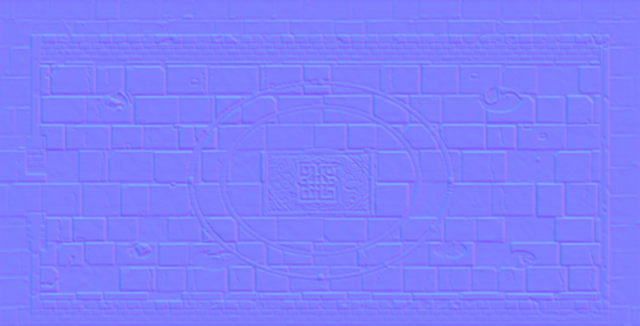
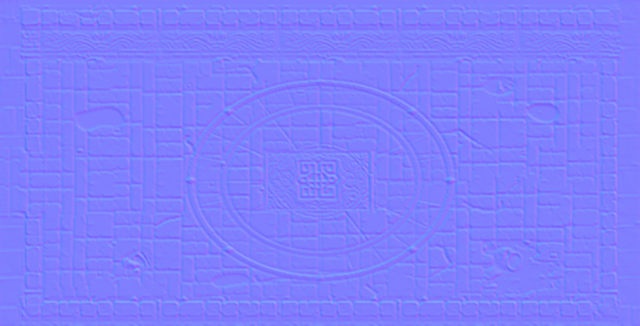
아트 굴3: den3 두억시니의 방 전용 지형 WIP — dungeon 바닥 퀼팅+의식대(소환점 8)+균열·검은 물+파도문 프리즈 벽 (걷기 기하·json 불변)

diff --git a/art/ch2den3_terrain.py b/art/ch2den3_terrain.py
@@ -1,0 +1,340 @@
+"""2장 두억시니의 방(den3) 전용 지형 — M2 의 '코드 판석' 바닥을 일러스트 소재로 갈아엎은 리페인트.
+걷기 기하(ch2m2_maps.MAPS['den3'])·충돌 json·소품 좌표는 그대로다(그림만 새로 그린다): 걷는 면 png x44~598, y62~299, 서쪽 입구 복도.
+ 바닥 = dungeon 원본 일러스트의 '진짜 바닥'(금 간 큰 판석·이끼)을 뒤집기까지 섞어 퀼팅 + 보라회색으로 톤 이동
+ 중앙 의식대 = 타원 세 겹(r40 제단 석판 / r98 안쪽 판 / r130 바깥 띠) 섹터 석판 + 보라 상감선 + 소환점 8(45도, r130 — 설계서 §4.6)
+ 균열 = 제단에서 방사하는 검은 틈(검은 비가 스며든 곳) + 모서리 검은 물웅덩이
+ 북·남 벽 = dungeon 일러스트의 파도문 프리즈 띠(den1 에서 뜸), 서·동 벽 = 기존 석축 페인터
+사용: python3 art/ch2den3_terrain.py   (den3 만 다시 만든다. den1.png 가 먼저 있어야 한다)
+"""
+import sys, pathlib
+import numpy as np
+from PIL import Image
+from scipy import ndimage as ndi
+
+ROOT = pathlib.Path(__file__).parent
+sys.path.insert(0, str(ROOT))
+import ch2m2_lib as L
+import ch2m2_terrain as T
+import ch2m2_walls as WL
+
+W, H = 640, 326
+CX, CY = 320, 180            # 의식 원 중심(그림 좌표) = footprint (320,200)
+RX = 130                     # 소환진 반경(footprint 130 → 그림 가로 130 / 세로 97.5)
+RY = RX * 0.75
+S = T.S
+
+
+# ------------------------------------------------------------------ 바닥 퀼팅
+def floor_pools():
+    v = L.load('dungeon')
+    boxes = [(770, 270, 1015, 425), (515, 500, 660, 700), (770, 300, 1010, 420)]   # 원본 해상도의 '깨끗한' 바닥 두 곳
+    return [v[y0:y1, x0:x1] for (x0, y0, x1, y1) in boxes[:2]]
+
+
+def quilt_multi(pools, out_hw, block=112, overlap=28, seed=5, tries=260):
+    """L.quilt 와 같은 Efros-Freeman 이지만 후보를 여러 풀에서, 뒤집어서도 뽑는다(반복 무늬 줄이기)."""
+    rng = np.random.default_rng(seed)
+    Ho, Wo = out_hw
+    step = block - overlap
+    ny, nx = -(-(Ho - overlap) // step), -(-(Wo - overlap) // step)
+    out = np.zeros((ny * step + overlap, nx * step + overlap, 3), np.float32)
+    for j in range(ny):
+        for i in range(nx):
+            y, x = j * step, i * step
+            best, bd = None, 1e30
+            for _ in range(tries):
+                p = pools[int(rng.integers(0, len(pools)))]
+                ph, pw = p.shape[:2]
+                sy, sx = int(rng.integers(0, ph - block)), int(rng.integers(0, pw - block))
+                c = p[sy:sy + block, sx:sx + block]
+                if rng.random() < 0.5:
+                    c = c[:, ::-1]
+                if rng.random() < 0.5:
+                    c = c[::-1]
+                d = 0.0
+                if i > 0:
+                    d += ((c[:, :overlap] - out[y:y + block, x:x + overlap]) ** 2).sum()
+                if j > 0:
+                    d += ((c[:overlap] - out[y:y + overlap, x:x + block]) ** 2).sum()
+                if d < bd:
+                    bd, best = d, c
+            c = best.copy()
+            if i == 0 and j == 0:
+                out[y:y + block, x:x + block] = c
+                continue
+            m = np.ones((block, block), np.float32)
+            if i > 0:
+                e = ((c[:, :overlap] - out[y:y + block, x:x + overlap]) ** 2).sum(2)
+                m[:, :overlap] = np.minimum(m[:, :overlap], L._cut_v(e))
+            if j > 0:
+                e = ((c[:overlap] - out[y:y + overlap, x:x + block]) ** 2).sum(2)
+                m[:overlap] = np.minimum(m[:overlap], L._cut_v(e.T).T)
+            m = ndi.gaussian_filter(m, 0.8)
+            out[y:y + block, x:x + block] = out[y:y + block, x:x + block] * (1 - m[..., None]) + c * m[..., None]
+    return out[:Ho, :Wo]
+
+
+def violet_gray(c):
+    """청록 바닥을 보라회색으로: 채널을 섞어 푸른 기를 덜고 붉은 기를 얹는다(휘도는 거의 유지)."""
+    R, G, B = c[..., 0], c[..., 1], c[..., 2]
+    lum = (R * .3 + G * .59 + B * .11)
+    out = np.stack([0.66 * R + 0.40 * B, 0.70 * G + 0.08 * B + 0.12 * R, 0.22 * R + 0.70 * B], -1)
+    out = out * (lum / np.maximum(out @ np.array([.3, .59, .11], np.float32), 1))[..., None]
+    return np.clip(out, 0, 255)
+
+
+def base_floor():
+    pools = [violet_gray(p) for p in floor_pools()]
+    hi = quilt_multi(pools, (round(H * S), round(W * S)))
+    img = Image.fromarray(np.clip(hi, 0, 255).astype(np.uint8)).resize((W, H), Image.BOX)
+    return np.asarray(img, np.float32)
+
+
+# ------------------------------------------------------------------ 의식대
+def polar():
+    yy, xx = np.mgrid[0:H, 0:W].astype(np.float32)
+    dx, dy = (xx - CX), (yy - CY)
+    r = np.sqrt((dx / RX) ** 2 + (dy / RY) ** 2)            # 1.0 = 소환진 원
+    ang = np.degrees(np.arctan2(dy / RY, dx / RX)) % 360
+    return r, ang
+
+
+VIO = [(52, 24, 96), (96, 46, 170), (150, 86, 236), (200, 150, 255)]
+
+
+def ritual(cv, wm, rng):
+    r, ang = polar()
+    walk = wm > 0.5
+    # 1) 판 위에 섹터 석판: 안쪽 판(r<0.75) 12섹터 / 바깥 띠(0.75..1.0) 24섹터, 석판마다 톤 ±
+    inner = (r < 0.75) & walk
+    band = (r >= 0.75) & (r < 1.02) & walk
+    sec_i = np.floor(ang / 30).astype(int)
+    sec_b = np.floor(ang / 15).astype(int)
+    ring_i = np.floor(r / 0.375).astype(int)               # 안쪽 판은 r 구간 2단(0.375 경계)
+    cell = np.where(inner, ring_i * 100 + sec_i, 1000 + sec_b)
+    h = ((cell * 2654435761) % 1000) / 1000.0
+    tone = np.where(inner, 0.88 + (h - 0.5) * 0.30, 0.66 + (h - 0.5) * 0.24)       # 안쪽 판이 더 밝다, 띠는 어둡다
+    sel = inner | band
+    cv[sel] = cv[sel] * tone[sel][..., None] + np.array([6, 2, 14], np.float32) * 1.0
+    # 석판 경계(어두운 줄눈): 셀 id 가 바뀌는 곳
+    cid = cell.astype(np.int64)
+    edge = np.zeros_like(sel)
+    edge[:, 1:] |= (cid[:, 1:] != cid[:, :-1])
+    edge[1:, :] |= (cid[1:, :] != cid[:-1, :])
+    edge &= sel
+    cv[edge] = (14, 12, 22)
+    # 위쪽 하이라이트(각 석판의 윗 가장자리 1px)
+    lit = np.zeros_like(sel)
+    lit[1:, :] = edge[:-1, :] & ~edge[1:, :] & sel[1:, :]
+    cv[lit] = np.clip(cv[lit] * 1.35 + 8, 0, 255)
+    # 2) 보라 상감선: r=1.0(소환진 원) / r=0.75(안쪽 판 가장자리) / r=0.30(제단 둘레)
+    for rr, wid, dim in ((1.0, 0.020, 0), (0.75, 0.016, 1), (0.30, 0.020, 1)):
+        d = np.abs(r - rr)
+        core = (d < wid) & walk
+        halo = (d >= wid) & (d < wid + 0.024) & walk
+        cv[halo] = cv[halo] * 0.38 + np.array((10, 6, 22), np.float32) * 0.62          # 상감 홈(어두운 테두리)
+        cv[core] = (64, 34, 118) if dim else (96, 52, 170)
+        top = core & ~np.roll(core, 1, axis=0)                                         # 윗줄 하이라이트
+        cv[top] = VIO[1] if dim else (140, 84, 214)
+    # 3) 소환점 8(45도): 보라 마름모 + 바깥 점 — 설계서 소환진 후보와 같은 8점(r=130 footprint)
+    for k in range(8):
+        a = np.radians(k * 45)
+        x0, y0 = CX + np.cos(a) * RX, CY + np.sin(a) * RY
+        for dy in range(-4, 5):
+            for dx in range(-6, 7):
+                if abs(dx) / 6 + abs(dy) / 4 <= 1.0:
+                    px, py = int(round(x0 + dx)), int(round(y0 + dy))
+                    if 0 <= px < W and 0 <= py < H and walk[py, px]:
+                        e = abs(dx) / 6 + abs(dy) / 4
+                        cv[py, px] = VIO[3] if e < 0.35 else (VIO[2] if e < 0.7 else VIO[1])
+    # 4) 살(8방향) — 점선: 안쪽 판 가장자리(0.75)에서 소환점 쪽으로 곧게, 끊긴 상감
+    for k in range(8):
+        a = np.radians(k * 45 + 22.5)
+        for t in np.arange(0.34, 0.74, 0.012):
+            if int(t * 100) % 6 < 3:
+                px, py = int(CX + np.cos(a) * RX * t), int(CY + np.sin(a) * RY * t)
+                if walk[py, px]:
+                    cv[py, px] = VIO[1]
+    return r
+
+
+# ------------------------------------------------------------------ 균열·검은 물·잔해
+def fissures(cv, wm, rng, r):
+    """제단에서 방사하는 틈. 어둡게 1~2px + 한쪽에 보라 점(검은 비가 스며 나온 자국)."""
+    walk = wm > 0.5
+    starts = [(8, 1.12), (38, 1.1), (75, 1.12), (118, 1.1), (158, 1.12), (200, 1.1), (245, 1.12), (298, 1.1), (335, 1.12)]
+    for ad, r0 in starts:
+        a = np.radians(ad + rng.uniform(-6, 6))
+        x, y = CX + np.cos(a) * RX * r0, CY + np.sin(a) * RY * r0
+        ln = int(rng.integers(26, 56))
+        ang = a
+        for i in range(ln):
+            ang += rng.normal(0, 0.28)
+            x += np.cos(ang) * 2.0; y += np.sin(ang) * 1.5
+            ix, iy = int(x), int(y)
+            if not (50 <= ix < 592 and 66 <= iy < 295) or not walk[iy, ix]:
+                break
+            if abs(((ix - CX) / RX) ** 2 + ((iy - CY) / RY) ** 2) < 1.05:
+                continue
+            wid = 2 if i < ln * 0.55 else 1
+            cv[iy:iy + wid, ix:ix + wid + 1] = (9, 8, 16)
+            if i % 5 == 2 and wid == 2:
+                cv[iy, ix + wid + 1] = VIO[0]
+    # 틈이 끝나는 곳의 작은 파편
+    return cv
+
+
+def black_pool(cv, wm, cx, cy, rx, ry, seed):
+    """검은 비 웅덩이: 불규칙한 어두운 물 + 가장자리 1px 밝은 테 + 보라 반짝임. wm 걷기 밖은 건드리지 않는다."""
+    rng = np.random.default_rng(seed)
+    x0, x1, y0, y1 = int(cx - rx * 1.5), int(cx + rx * 1.5), int(cy - ry * 1.5), int(cy + ry * 1.5)
+    yy, xx = np.mgrid[y0:y1, x0:x1].astype(np.float32)
+    n = L.noise(y1 - y0, x1 - x0, 12, seed) - 0.5
+    d = np.sqrt(((xx - cx) / rx) ** 2 + ((yy - cy) / ry) ** 2) + n * 0.55
+    m = d < 1.0
+    m &= wm[y0:y1, x0:x1] > 0.5
+    rim = m & ~ndi.binary_erosion(m, iterations=1)
+    inn = ndi.binary_erosion(m, iterations=2)
+    sub = cv[y0:y1, x0:x1]
+    sub[m] = (14, 16, 30)
+    sub[inn] = (8, 10, 22)
+    sub[rim] = (44, 52, 86)
+    # 잔물결: 가로 한 줄짜리 밝은 선, 보라 반짝이
+    for k in range(int(rx * ry / 55)):
+        px, py = int(rng.integers(0, x1 - x0)), int(rng.integers(0, y1 - y0))
+        if inn[py, px]:
+            ln = int(rng.integers(3, 7))
+            seg = inn[py, px:px + ln]
+            sub[py, px:px + len(seg)][seg] = (34, 44, 82)
+            if rng.random() < 0.35 and inn[py, min(px + 1, x1 - x0 - 1)]:
+                sub[py, px] = VIO[1]
+
+
+def real_puddle(cv, wm, box, at, flip=False):
+    """dungeon 원본의 검은 물웅덩이(+항아리)를 어두운 픽셀 마스크로 떠서 보라 기운으로 얹는다. 걷기 밖은 건드리지 않는다."""
+    v = L.load('dungeon')
+    x0, y0, x1, y1 = box
+    p = v[y0:y1, x0:x1]
+    if flip:
+        p = p[:, ::-1]
+    img = Image.fromarray(np.clip(p, 0, 255).astype(np.uint8)).resize((round(p.shape[1] / S), round(p.shape[0] / S)), Image.BOX)
+    q = violet_gray(np.asarray(img, np.float32))
+    lum = q @ np.array([.3, .59, .11], np.float32)
+    m = ndi.binary_closing(lum < 40, iterations=2)
+    m = ndi.binary_fill_holes(m)
+    m = ndi.binary_opening(m, iterations=1)
+    lab, n = ndi.label(m)
+    if n:
+        sizes = ndi.sum(m, lab, range(1, n + 1))
+        keep = np.isin(lab, [i + 1 for i, sz in enumerate(sizes) if sz > 60])
+        m = keep
+    ax, ay = at
+    h, w = m.shape
+    sub = wm[ay:ay + h, ax:ax + w] > 0.5
+    if sub.shape != m.shape:
+        return
+    mm = m & sub
+    cv[ay:ay + h, ax:ax + w][mm] = q[mm]
+
+
+def den3_source():
+    rng = np.random.default_rng(77)
+    wm = T.walk_mask('den3', 1.0)
+    outer = L.grime(L.flagstones(W, H, seed=31, pal=T.DARK_SLAB, moss=0.5), seed=17, strength=0.45)
+    floor = base_floor()
+    # 큰 얼룩: 벽 쪽 가장자리를 어둡게(그을음·습기), 중앙 의식대 둘레는 조금 밝게
+    yy, xx = np.mgrid[0:H, 0:W].astype(np.float32)
+    dn = np.minimum.reduce([xx - 44, 598 - xx, yy - 62, 299 - yy])
+    edge_dark = np.clip(1 - dn / 46.0, 0, 1) * 0.28
+    n = L.noise(H, W, 40, 11)
+    floor = floor * (1 - edge_dark[..., None]) * (0.90 + 0.20 * n)[..., None]
+    ww = np.asarray(Image.fromarray((wm * 255).astype(np.uint8)).filter(__import__('PIL.ImageFilter', fromlist=['x']).MaxFilter(9)))
+    cv = np.where((ww > 127)[..., None], floor, outer).astype(np.float32)
+    r = ritual(cv, wm, rng)
+    # 제단 밑 문양 석판(den1 북서 문양 바닥) — 소품 mortar_altar 가 위에 앉는다
+    d1 = T.den1_png()
+    sl = d1[36:98, 20:132]
+    L.paste(cv, sl, CX - 56, CY - 30, None)
+    # 검은 웅덩이 4곳(소품·소환점과 겹치지 않는 모서리 쪽) + 일러스트 웅덩이 스탬프
+    black_pool(cv, wm, 100, 118, 26, 11, 3)
+    real_puddle(cv, wm, (510, 365, 705, 510), (480, 238), flip=True)            # 동쪽 아래: 깨진 항아리 + 검은 물
+    black_pool(cv, wm, 232, 280, 18, 8, 5)
+    black_pool(cv, wm, 540, 112, 16, 9, 6)
+    T.decals(cv, rng, [('pots_b', 136, 262, False), ('pile', 500, 86, True)], d1)
+    fissures(cv, wm, rng, r)
+    L.rubble(cv, rng, [(rng.uniform(70, 570), rng.uniform(72, 292)) for _ in range(12)])
+    L.glow_pools(cv, [(60, 120), (580, 120), (60, 260), (580, 260), (320, 70)], radii=(18, 40, 70), adds=((10, 4, 20), (8, 3, 14), (6, 2, 10)))
+    walls(cv, rng)
+    return cv, None, None
+
+
+# ------------------------------------------------------------------ 벽
+STRIP = None
+
+
+def wall_strip():
+    """den1 일러스트의 파도문 프리즈 벽(갓돌 + 프리즈 + 벽돌 단) 띠. (왼 문설주 19px | 몸 120px | 오른 문설주 10px)"""
+    d1 = T.den1_png()
+    rows = d1[188:244]
+    return rows[:, 157:176], rows[:, 176:296], rows[:, 296:306]
+
+
+def paste_strip(cv, y_top, x0, x1, flip_alt=True):
+    lp, body, rp = wall_strip()
+    x = x0
+    cv[y_top:y_top + 56, x:x + lp.shape[1]] = lp[:cv.shape[0] - y_top]
+    x += lp.shape[1]
+    k = 0
+    while x + body.shape[1] <= x1 - rp.shape[1]:
+        b = body[:, ::-1] if (flip_alt and k % 2) else body
+        cv[y_top:y_top + 56, x:x + b.shape[1]] = b[:cv.shape[0] - y_top]
+        x += b.shape[1]; k += 1
+    rest = x1 - rp.shape[1] - x
+    if rest > 0:
+        b = (body[:, ::-1] if (k % 2) else body)[:, :rest]
+        cv[y_top:y_top + 56, x:x + rest] = b[:cv.shape[0] - y_top]
+    cv[y_top:y_top + 56, x1 - rp.shape[1]:x1] = rp[:cv.shape[0] - y_top]
+
+
+def walls(cv, rng):
+    # 북벽: 앞면 아래 끝이 걷기 시작선(y=62)에 닿게
+    cv[0:14, 20:620] = (14, 18, 26)
+    paste_strip(cv, 62 - 56, 20, 620)
+    # 남벽: 갓돌 윗면이 걷기 끝선(y=299)에서 시작(프리즈는 캔버스 아래로 잘림)
+    paste_strip(cv, 299 - 2, 20, 620)
+    # 서·동 벽: 같은 갓돌 줄을 90도 돌려 세로로 세운다(옆에서 본 벽 윗면). 서쪽은 입구 문(png y150~212)
+    d1 = T.den1_png()
+    cap_row = d1[191:211, 178:296]                      # 갓돌 한 줄(높이 20 x 길이 118)
+    cap_row = cap_row * np.array([0.80, 0.78, 0.84], np.float32)      # 세로 벽은 윗벽보다 한 톤 어둡게(빛이 위에서)
+    col = np.rot90(cap_row, 1)                          # 길이가 세로로
+    def side(x0, flip):
+        c = col[:, ::-1] if flip else col
+        y = 56
+        k = 0
+        while y < 305:
+            seg = (c if k % 2 == 0 else c[::-1])
+            h = min(seg.shape[0], 305 - y)
+            cv[y:y + h, x0:x0 + seg.shape[1]] = seg[:h]
+            y += seg.shape[0]; k += 1
+    side(24, False)
+    side(598, True)
+    # 입구 틈(png y150~212)은 갓돌을 지우고 문설주 돌 둘로 끝을 마감한다 — 바닥은 걷기 면이라 건드리지 않음
+    gate = ndi.binary_dilation(np.pad(np.zeros((1, 1), bool), 0), iterations=0) if False else None
+    fl = cv[150:212, 46:70].copy()
+    cv[150:212, 20:46] = np.concatenate([fl[:, ::-1], fl[:, ::-1]], 1)[:, :26]
+    post = np.rot90(cap_row[:, :24], 1)                  # 24 x 20
+    for y0 in (128, 212):
+        cv[y0:y0 + 24, 24:44] = post
+    L.roots(cv, rng, [(x, y, a) for (x, y, a) in [(60, 12, 0.4), (500, 8, 1.8), (612, 60, 2.4), (14, 306, -0.4), (606, 318, -2.6)]], n=30)
+
+
+DEN3_TONE = dict(bright=1.12, sat=1.0, tint=(66, 30, 84), mix=0.16)
+
+
+def build():
+    img, _, _ = den3_source()
+    return T.finish('den3', Image.fromarray(np.clip(img, 0, 255).astype(np.uint8)), DEN3_TONE, W, H)
+
+
+if __name__ == '__main__':
+    build()
